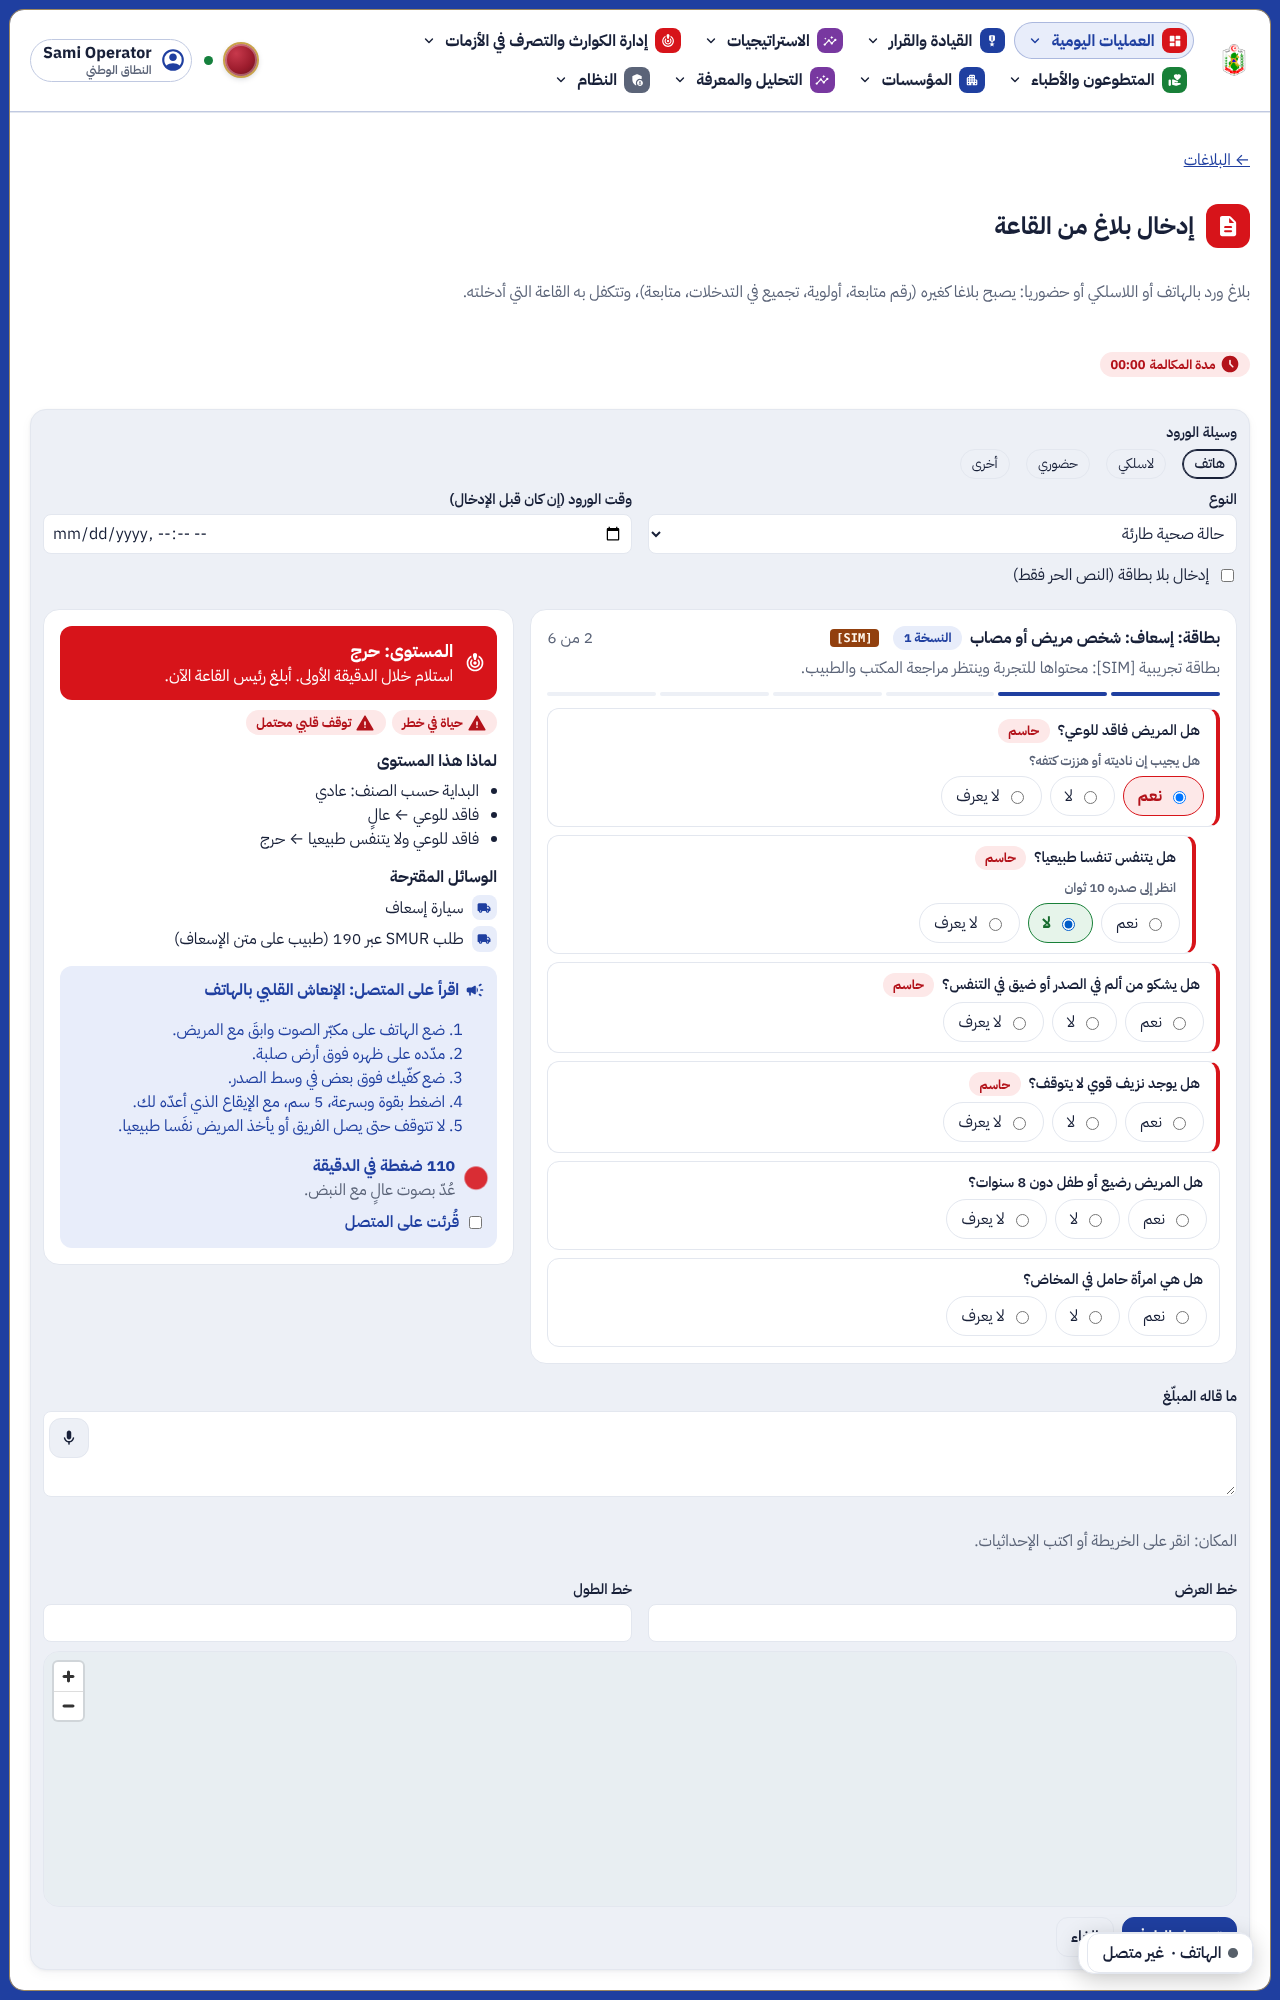
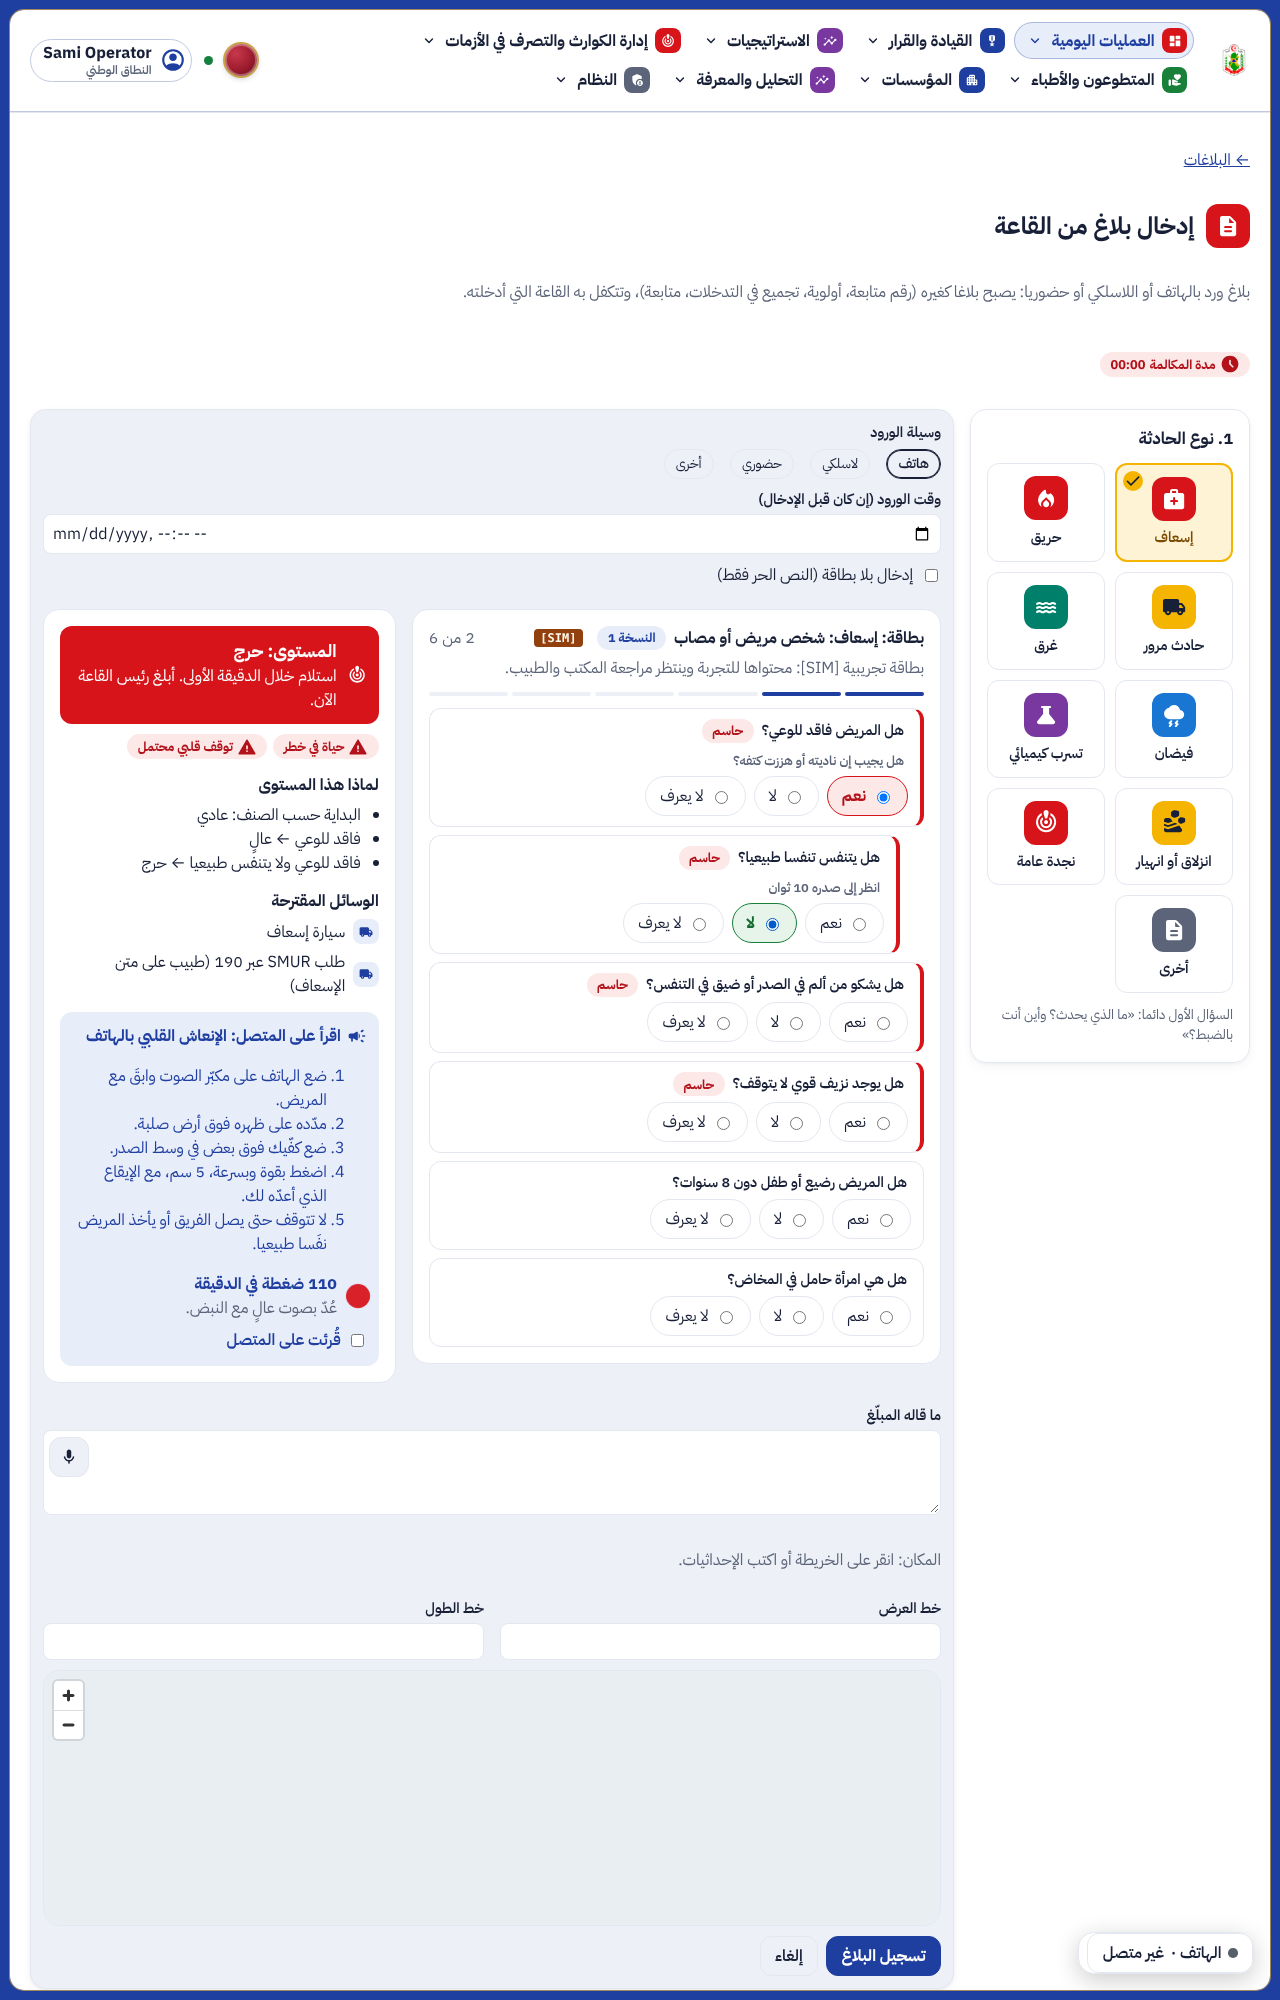
OS2: incident type as picture tiles in the room's intake form
- the category select becomes a grid of nine tiles (icon, short name, check on the chosen one)
  beside the form, with the reminder of the first question; ar, fr and en
- one icon map for the categories, shared with the cards page
- the guide no longer says the team sees the card summary in the field app: the mission does not
  carry the report text yet (backlog OS2-2)

Claude-Session: https://claude.ai/code/session_01YXNgutunrjq1HaVdRKG9E1

diff --git a/apps/dashboard/src/pages/RoomReportPage.tsx b/apps/dashboard/src/pages/RoomReportPage.tsx
@@ -14,10 +14,11 @@ import { errorMessageKey } from "../lib/api";
 import { useLanguage } from "../lib/hooks";
 import { initialBoundsFor } from "../lib/mapStyle";
 import { INTAKE_CHANNELS, type IntakeChannel } from "../lib/staffApi";
-import { CATEGORIES, type Category } from "../lib/types";
+import type { Category } from "../lib/types";
 import { DictatedTextarea } from "../components/Dictation";
 import { CallCardPanel, useCallTimer } from "../components/CallCardPanel";
-import { Icon } from "../components/Icon";
+import { Icon, IconTile } from "../components/Icon";
+import { CATEGORY_TILE, TILE_ORDER } from "../lib/categoryIcons";
 import { callCardKeys, shownAnswers, type Answers } from "../lib/callCards";
 import { canReadCallCards } from "../lib/roles";
 import { ApiError } from "../lib/api";
@@ -116,7 +117,32 @@ export function RoomReportPage() {
           <Icon name="schedule" /> {t("callCards.timer")} <span className="call-card__clock">{timer}</span>
         </span>
       </p>
-      <form className="card ops-form intake-form" onSubmit={submit} noValidate aria-describedby={`${id}-hint`}>
+      <form className="intake-layout" onSubmit={submit} noValidate aria-describedby={`${id}-hint`}>
+        <fieldset className="card intake-cats">
+          <legend>{t("intake.categoryStep")}</legend>
+          <div className="intake-cats__grid">
+            {TILE_ORDER.map((c) => (
+              <label key={c} className="intake-cats__tile">
+                <input
+                  type="radio"
+                  className="visually-hidden"
+                  name={`${id}-category`}
+                  checked={category === c}
+                  onChange={() => pickCategory(c)}
+                />
+                {category === c && (
+                  <span className="intake-cats__check" aria-hidden="true">
+                    <Icon name="check" />
+                  </span>
+                )}
+                <IconTile name={CATEGORY_TILE[c][0]} tone={CATEGORY_TILE[c][1]} />
+                <span>{t(`intake.tiles.${c}`)}</span>
+              </label>
+            ))}
+          </div>
+          <p className="muted intake-cats__hint">{t("intake.firstQuestion")}</p>
+        </fieldset>
+        <div className="card ops-form intake-form">
         <fieldset className="chips">
           <legend>{t("intake.channel")}</legend>
           {INTAKE_CHANNELS.map((c) => (
@@ -126,21 +152,9 @@ export function RoomReportPage() {
             </label>
           ))}
         </fieldset>
-        <div className="form-grid">
-          <div className="field">
-            <label htmlFor={`${id}-c`}>{t("intake.category")}</label>
-            <select id={`${id}-c`} value={category} onChange={(e) => pickCategory(e.target.value as Category)}>
-              {CATEGORIES.map((c) => (
-                <option key={c} value={c}>
-                  {t(`category.${c}`)}
-                </option>
-              ))}
-            </select>
-          </div>
-          <div className="field">
-            <label htmlFor={`${id}-r`}>{t("intake.receivedAt")}</label>
-            <input id={`${id}-r`} type="datetime-local" value={receivedAt} onChange={(e) => setReceivedAt(e.target.value)} />
-          </div>
+        <div className="field">
+          <label htmlFor={`${id}-r`}>{t("intake.receivedAt")}</label>
+          <input id={`${id}-r`} type="datetime-local" value={receivedAt} onChange={(e) => setReceivedAt(e.target.value)} />
         </div>
         {card && (
           <label className="call-card__skip">
@@ -214,6 +228,7 @@ export function RoomReportPage() {
           <Link className="btn" to="/reports">
             {t("common.cancel")}
           </Link>
+        </div>
         </div>
       </form>
     </div>

diff --git a/apps/dashboard/src/pages/RoomReport.test.tsx b/apps/dashboard/src/pages/RoomReport.test.tsx
@@ -32,7 +32,7 @@ describe("RoomReportPage", () => {
     expect(enterReport).not.toHaveBeenCalled();
 
     fireEvent.click(screen.getByRole("radio", { name: "لاسلكي" }));
-    fireEvent.change(screen.getByLabelText("النوع"), { target: { value: "fire" } });
+    fireEvent.click(screen.getByRole("radio", { name: "حريق" }));
     fireEvent.change(screen.getByLabelText("ما قاله المبلّغ"), { target: { value: "دخان كثيف قرب السوق" } });
     fireEvent.click(await screen.findByRole("button", { name: "خريطة لتحديد مكان البلاغ" }));
     expect(screen.getByLabelText("خط العرض")).toHaveValue("36.45130");
@@ -57,7 +57,7 @@ describe("RoomReportPage with the guided call-taking card (OS2)", () => {
       auth: fakeAuth(agent),
       lang: "ar",
     });
-    fireEvent.change(screen.getByLabelText("النوع"), { target: { value: "medical" } });
+    fireEvent.click(screen.getByRole("radio", { name: "إسعاف" }));
     const conscious = await screen.findByRole("group", { name: /هل المريض فاقد للوعي/ });
     fireEvent.click(within(conscious).getByRole("radio", { name: "نعم" }));
     const breathing = await screen.findByRole("group", { name: /هل يتنفس تنفسا طبيعيا/ });
@@ -85,7 +85,7 @@ describe("RoomReportPage with the guided call-taking card (OS2)", () => {
       auth: fakeAuth(agent),
       lang: "ar",
     });
-    fireEvent.change(screen.getByLabelText("النوع"), { target: { value: "fire" } });
+    fireEvent.click(screen.getByRole("radio", { name: "حريق" }));
     fireEvent.click(await screen.findByRole("checkbox", { name: "إدخال بلا بطاقة (النص الحر فقط)" }));
     expect(screen.queryByRole("group", { name: /هل/ })).toBeNull();
     fireEvent.click(await screen.findByRole("button", { name: "خريطة لتحديد مكان البلاغ" }));

diff --git a/apps/dashboard/src/styles/global.css b/apps/dashboard/src/styles/global.css
@@ -11755,3 +11755,77 @@ body::after {
   display: grid;
   gap: 6px;
 }
+
+/* The room's intake (OS2): the incident type as tiles beside the form. */
+.intake-layout {
+  display: grid;
+  grid-template-columns: minmax(220px, 280px) minmax(0, 1fr);
+  gap: 16px;
+  align-items: start;
+}
+@media (max-width: 900px) {
+  .intake-layout {
+    grid-template-columns: minmax(0, 1fr);
+  }
+}
+.intake-cats {
+  margin: 0;
+  position: sticky;
+  top: 12px;
+}
+.intake-cats legend {
+  float: inline-start;
+  width: 100%;
+  font-weight: 700;
+  font-size: 1.05em;
+  margin-bottom: 12px;
+}
+.intake-cats__grid {
+  clear: both;
+  display: grid;
+  grid-template-columns: repeat(2, minmax(0, 1fr));
+  gap: 10px;
+}
+.intake-cats__tile {
+  position: relative;
+  display: grid;
+  justify-items: center;
+  gap: 6px;
+  padding: 12px 6px;
+  border: 1px solid var(--border);
+  border-radius: 12px;
+  background: var(--surface);
+  text-align: center;
+  font-weight: 600;
+  font-size: 0.9em;
+  cursor: pointer;
+}
+.intake-cats__tile:hover {
+  border-color: var(--tone-navy);
+}
+.intake-cats__tile:has(input:checked) {
+  border: 2px solid var(--tone-amber);
+  background: var(--tone-amber-tint);
+  color: var(--tone-amber-ink);
+}
+.intake-cats__tile:has(input:focus-visible) {
+  outline: 3px solid var(--tone-navy);
+  outline-offset: 2px;
+}
+.intake-cats__check {
+  position: absolute;
+  top: 6px;
+  inset-inline-end: 6px;
+  display: grid;
+  place-items: center;
+  width: 20px;
+  height: 20px;
+  border-radius: 50%;
+  background: var(--tone-amber);
+  color: var(--tone-amber-on);
+  font-size: 14px;
+}
+.intake-cats__hint {
+  margin: 12px 0 0;
+  font-size: 0.85em;
+}

diff --git a/apps/dashboard/src/pages/CallCardsPage.tsx b/apps/dashboard/src/pages/CallCardsPage.tsx
@@ -6,7 +6,7 @@ import { useId, useState } from "react";
 import { useTranslation } from "react-i18next";
 import { CallCardPanel } from "../components/CallCardPanel";
 import { ErrorBox, Loading } from "../components/Feedback";
-import { IconTile, type IconName, type Tone } from "../components/Icon";
+import { IconTile } from "../components/Icon";
 import { PageTitle } from "../components/PageTitle";
 import { ReasonField } from "../components/Phase9Bits";
 import { useAuth } from "../context/auth";
@@ -32,19 +32,10 @@ import {
 import { useFormat } from "../lib/hooks";
 import { reasonValid } from "../lib/phase9";
 import { callCardRights } from "../lib/roles";
+import { CATEGORY_TILE } from "../lib/categoryIcons";
 import { CATEGORIES, type Category } from "../lib/types";
 
-const CATEGORY_ICON: Record<Category, [IconName, Tone]> = {
-  sos: ["crisisAlert", "red"],
-  fire: ["localFireDepartment", "red"],
-  flood: ["thunderstorm", "sky"],
-  traffic_accident: ["localShipping", "amber"],
-  drowning: ["water", "teal"],
-  landslide: ["landslide", "amber"],
-  chemical_leak: ["science", "purple"],
-  medical: ["medicalServices", "red"],
-  other: ["description", "slate"],
-};
+const CATEGORY_ICON = CATEGORY_TILE;
 
 const lines = (s: string) =>
   s

diff --git a/apps/dashboard/src/lib/categoryIcons.ts b/apps/dashboard/src/lib/categoryIcons.ts
@@ -1,4 +1,21 @@
+import type { IconName, Tone } from "../components/Icon";
 import type { Category } from "./types";
+
+/** Icon and tone of each category on the tiles of the room (intake form, call-taking cards; OS2). */
+export const CATEGORY_TILE: Record<Category, [IconName, Tone]> = {
+  medical: ["medicalServices", "red"],
+  fire: ["localFireDepartment", "red"],
+  traffic_accident: ["localShipping", "amber"],
+  drowning: ["water", "teal"],
+  flood: ["thunderstorm", "sky"],
+  chemical_leak: ["science", "purple"],
+  landslide: ["landslide", "amber"],
+  sos: ["crisisAlert", "red"],
+  other: ["description", "slate"],
+};
+
+/** The order of the tiles: the most frequent calls first. */
+export const TILE_ORDER = Object.keys(CATEGORY_TILE) as Category[];
 
 /** 24×24 single-path pictograms (stroke-free fill), used in the list, the detail page and the map markers. */
 export const CATEGORY_ICON_PATHS: Record<Category, string> = {

diff --git a/apps/dashboard/e2e/phase-n.spec.ts b/apps/dashboard/e2e/phase-n.spec.ts
@@ -102,7 +102,7 @@ test.describe("phase N", () => {
     await page.addInitScript(() => window.localStorage.setItem("ehimaya.lang", "ar"));
     await page.goto("/reports/new");
     await expect(page.getByRole("radio", { name: "هاتف" })).toBeChecked();
-    await page.getByLabel("النوع").selectOption("flood");
+    await page.locator(".intake-cats__tile", { hasText: "فيضان" }).click();
     await page.getByLabel("ما قاله المبلّغ").fill("[SIM] المياه تغمر الطريق قرب وادي سوحيل، عائلة على سطح منزلها");
     await page.getByLabel("خط العرض").fill("36.4561");
     await page.getByLabel("خط الطول").fill("10.7376");

diff --git a/apps/dashboard/e2e/phase-os2.spec.ts b/apps/dashboard/e2e/phase-os2.spec.ts
@@ -31,7 +31,7 @@ test.describe("OS2: guided call-taking cards", () => {
     await signIn(page, ["operator"]);
     await page.addInitScript(() => window.localStorage.setItem("ehimaya.lang", "ar"));
     await page.goto("/reports/new");
-    await page.getByLabel("النوع").selectOption("medical");
+    await page.locator(".intake-cats__tile", { hasText: "إسعاف" }).click();
     const conscious = page.getByRole("group", { name: /هل المريض فاقد للوعي/ });
     await conscious.getByText("نعم", { exact: true }).click();
     const breathing = page.getByRole("group", { name: /هل يتنفس تنفسا طبيعيا/ });

diff --git a/docs/phase-os2/design-os2.md b/docs/phase-os2/design-os2.md
@@ -20,8 +20,8 @@ the branch `archive/before-call-cards-2026-11-10`.
 - Instructions to read to the caller have numbered steps; CPR carries a metronome (60 to 140 a minute, 110 seeded).
 - The intake form sends `call_card {card_id, version, answers, read}` with `POST /api/v1/staff/reports/room`. The server
   evaluates the answers again against the approved version (409 `call_card_changed` when a new one was approved during
-  the call), stores them in `reports.call_card_answer`, prepends an Arabic summary to the report text (so the team and
-  every reader see it without a mobile change), and sets `reports.report.call_card_floor`.
+  the call), stores them in `reports.call_card_answer`, prepends an Arabic summary to the report text (the room and every
+  dashboard reader see it; the field app's mission does not carry the report text yet, backlog OS2-2), and sets `reports.report.call_card_floor`.
 - The SLA band never goes below `call_card_floor`, also when the priority is computed again (`reports/sla.py`).
 - The priority: `lives` gives the «life in danger» component 1.0 with the source `call_card`; `injured` gives 0.6 to the
   casualties component (`ai/scoring.py`). The weights do not change.
